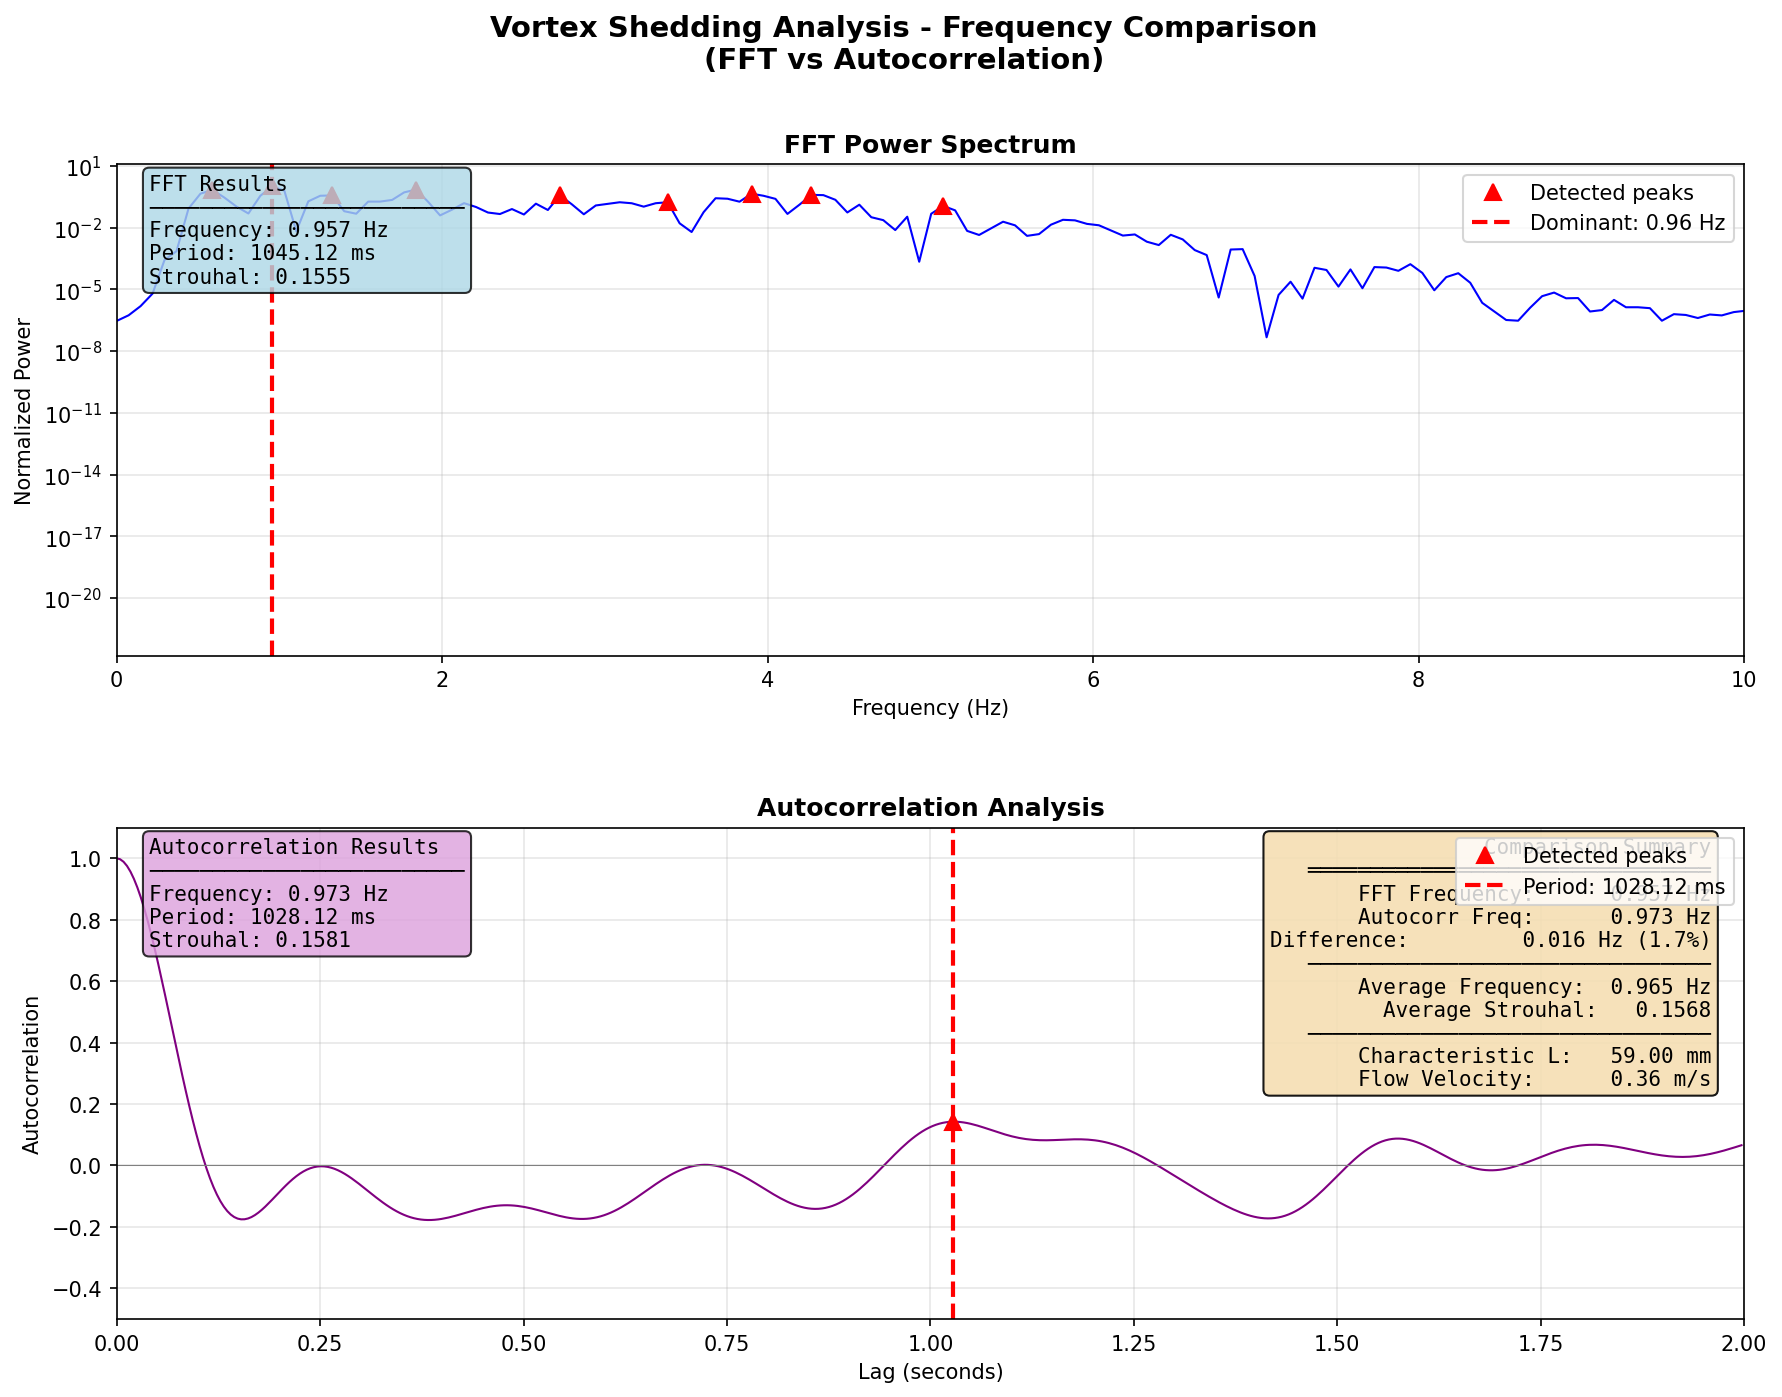
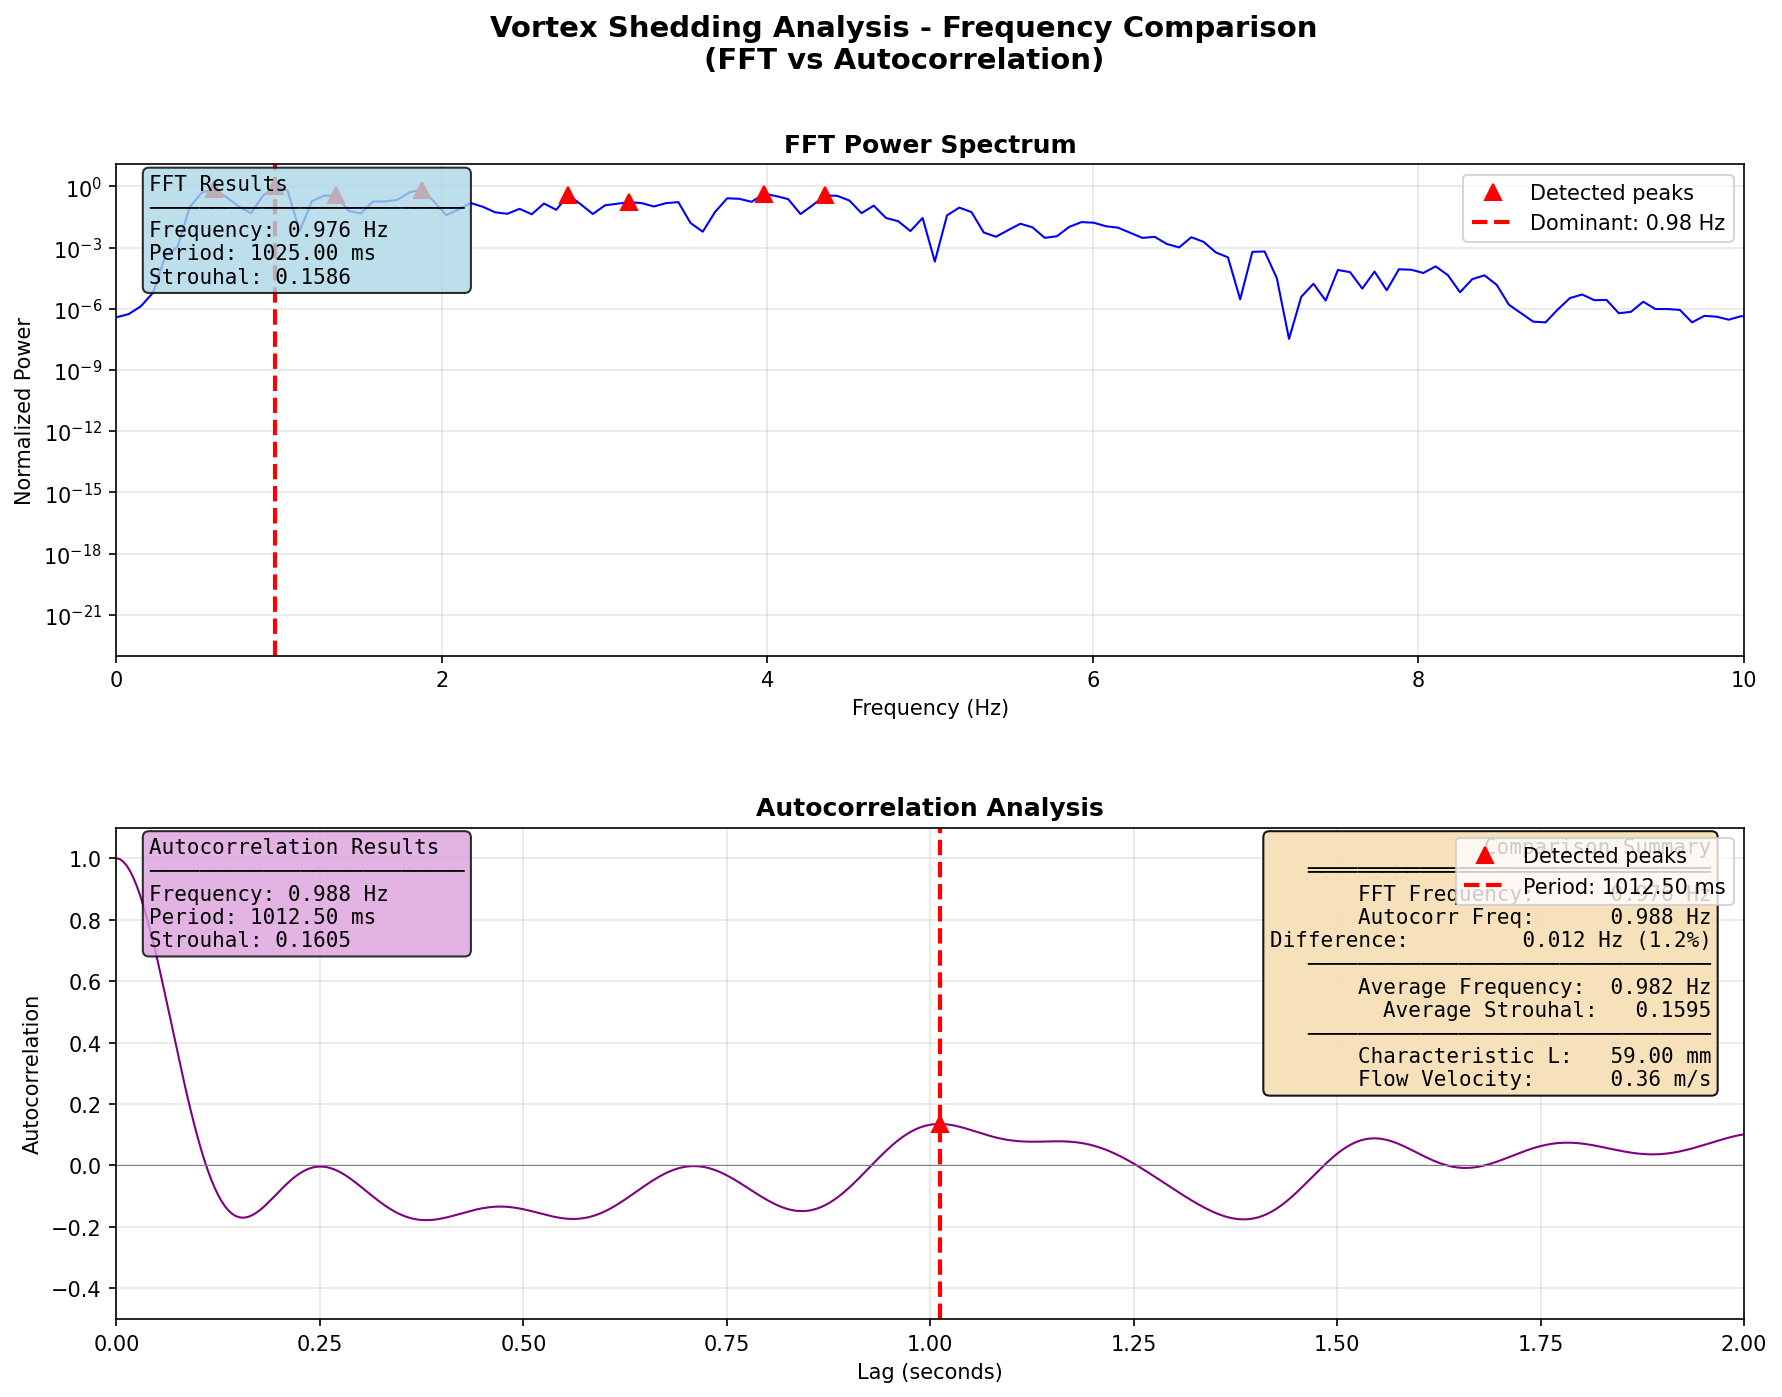
working roi

diff --git a/Lab 1/vortex_analysis.py b/Lab 1/vortex_analysis.py
@@ -37,7 +37,7 @@ CHARACTERISTIC_LENGTH = 0.059  # meters (e.g., cylinder diameter)
 FLOW_VELOCITY = 0.363          # m/s (free stream velocity)
 
 # Analysis settings
-FRAME_RATE = None        # Set to None to auto-detect from video, or override (fps)
+FRAME_RATE = 240        # Set to None to auto-detect from video, or override (fps)
 BANDPASS_LOW = 0.5       # Hz - lower cutoff (filters out DC drift)
 BANDPASS_HIGH = 5.0    # Hz - upper cutoff (filters out high-freq noise)
 USE_BANDPASS = True      # Enable/disable bandpass filtering
